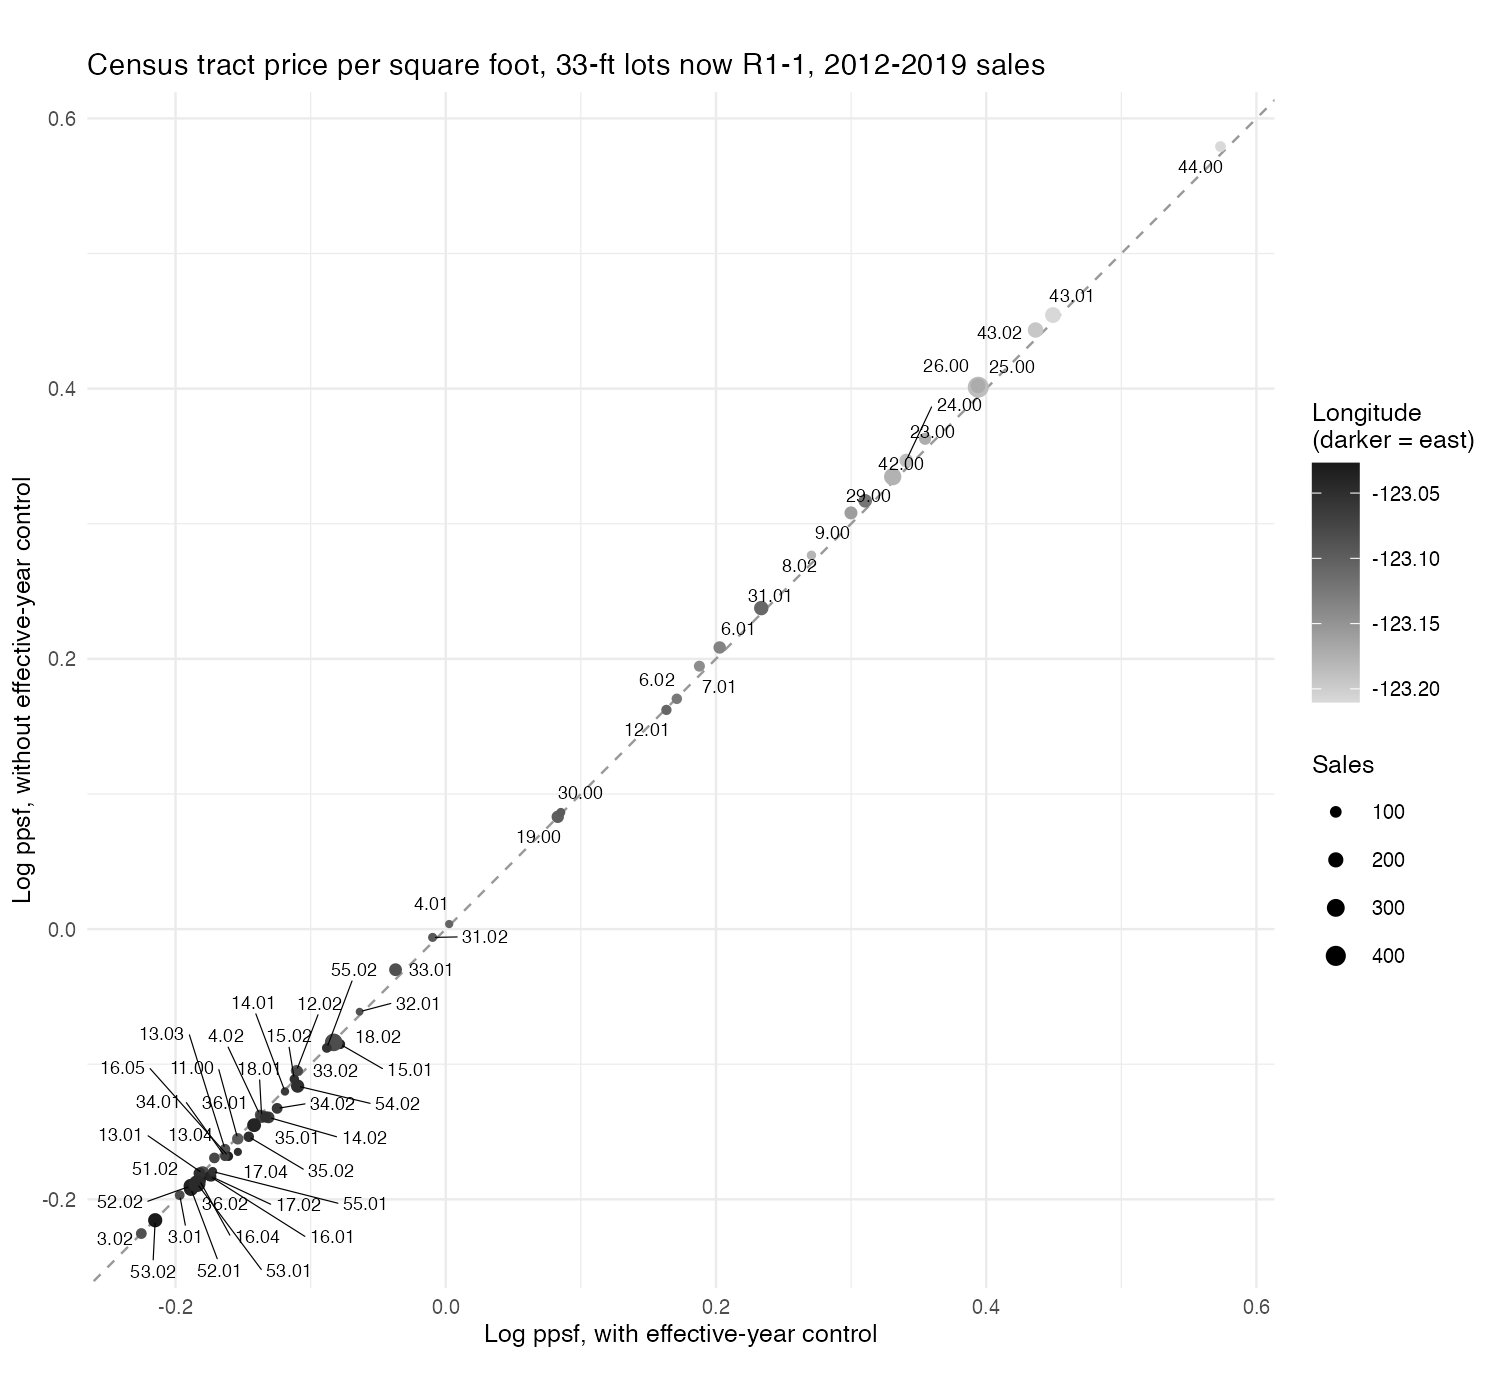
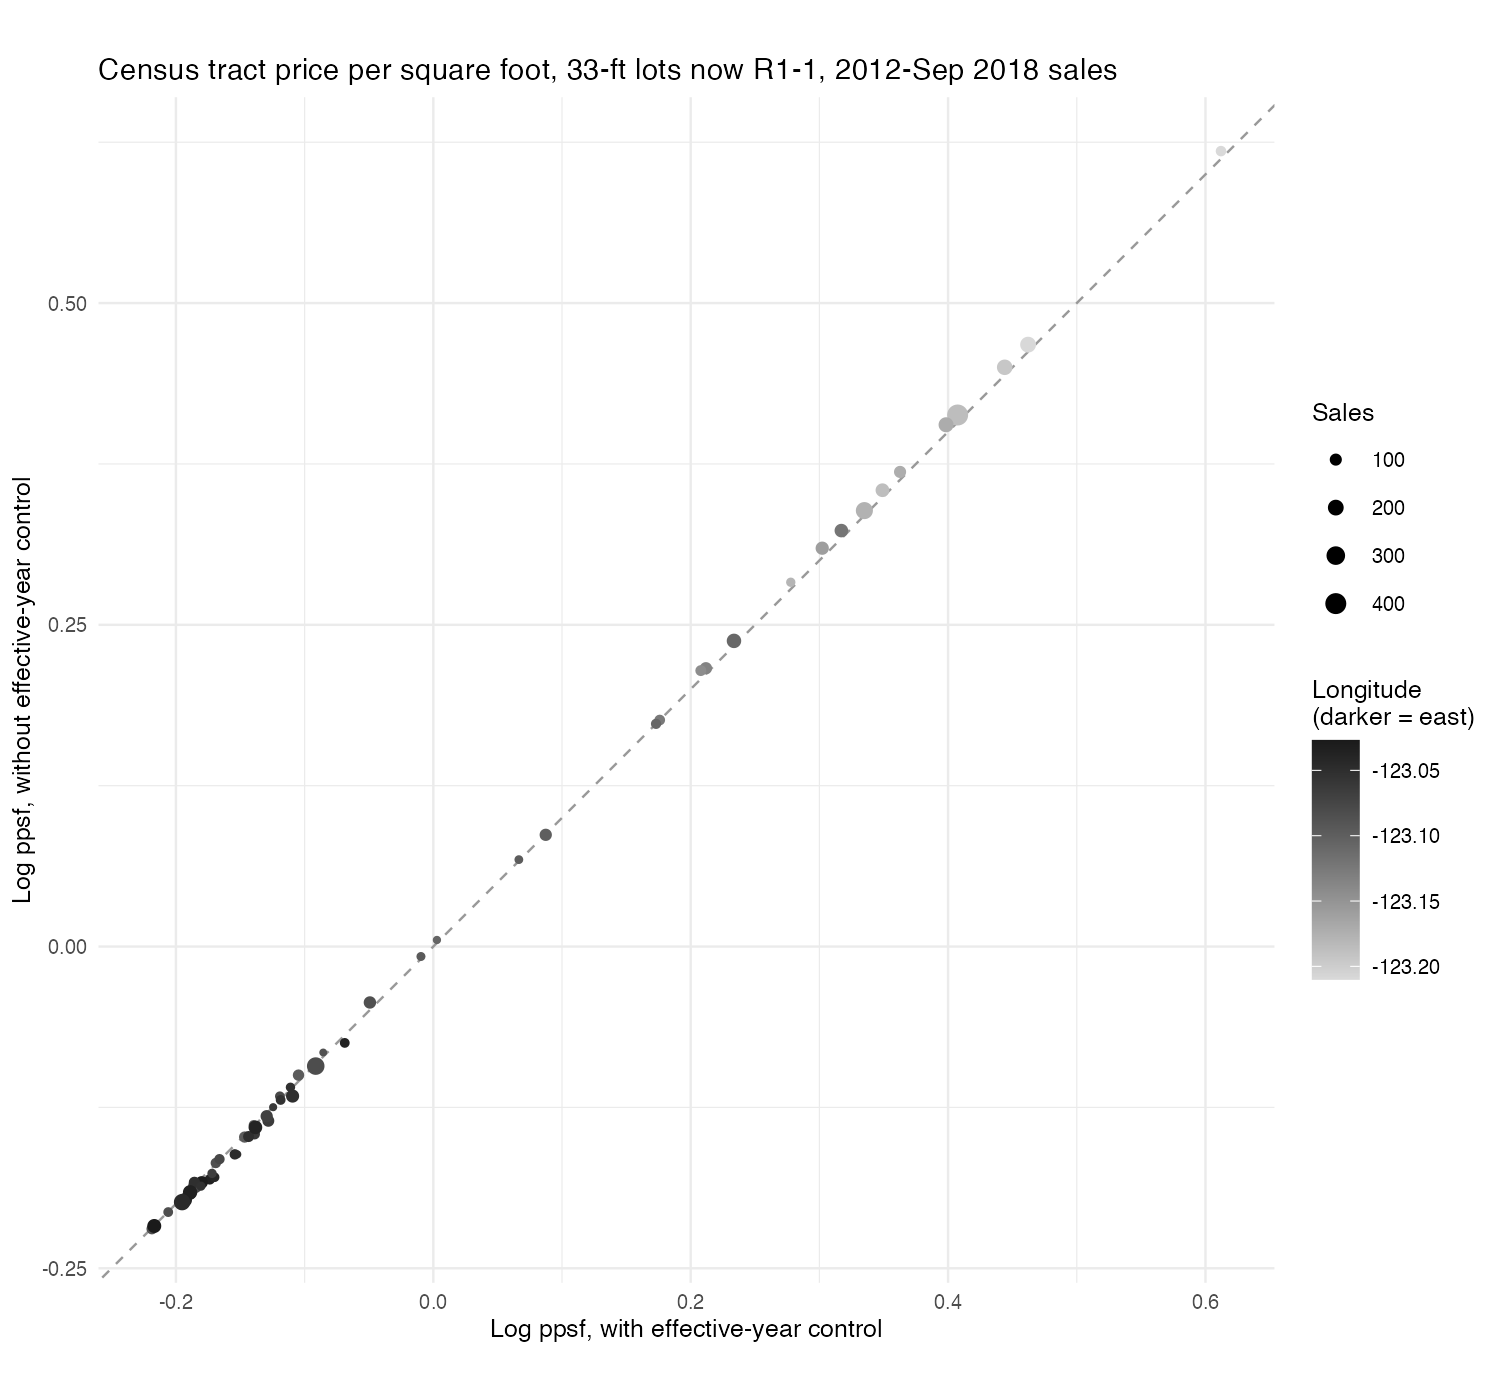
[CHECK] ppsf33: sales end before Sept 2018 duplex approval; unlabeled tract plot

diff --git a/text/main.tex b/text/main.tex
@@ -167,20 +167,20 @@ To estimate a price per square foot at the census tract or neighbourhood level, 
 	\log \text{ppsf}_{ijt} = \alpha + \sum_{t}\beta_{t}I_{t} + \beta \log \text{effective year}_{i} + \sum_{j}\gamma_{j}I_{j} + \epsilon_{ijt}
 \end{equation}
 
-ppsf is the price per square foot (main building total built area). We estimate these for single family transactions in zones now R1 for the years \ppsfFirstYear{} through \ppsfLastYear{}, the last year of sales in the 2019 assessment extract \parencite{BCAssessment2019}. Figure \ref{fig:tractPPSF} plots these estimates at the tract level with (horizontal axis) and without (vertical axis) the effective year control. The points are shaded with darker shades further east and lighter shades further west. Figure \ref{fig:neighbourhoodPPSF} is at the neighbourhood level. All of these estimates are for 33' lots, the focus of our empirical analysis. We choose 33' lots because \lotShareThirtyThreeRone\% of R1 lots are (rounded) 33' wide and because, among new building permits issued since 2024, multiplexes are \mplxShareThirtyThree\% of new builds on 33' lots versus \mplxShareWider\% on larger lots \parencite{BCAssessment2019,COVdata}.
+ppsf is the price per square foot (main building total built area). We estimate these for single family transactions in zones now R1 from \ppsfFirstYear{} until council approved duplexes in RS zones in \duplexCouncilMonth{} \ppsfLastYear{}, so that prices predate the duplex period \parencite{BCAssessment2019}. Figure \ref{fig:tractPPSF} plots these estimates at the tract level with (horizontal axis) and without (vertical axis) the effective year control. The points are shaded with darker shades further east and lighter shades further west. Figure \ref{fig:neighbourhoodPPSF} is at the neighbourhood level. All of these estimates are for 33' lots, the focus of our empirical analysis. We choose 33' lots because \lotShareThirtyThreeRone\% of R1 lots are (rounded) 33' wide and because, among new building permits issued since 2024, multiplexes are \mplxShareThirtyThree\% of new builds on 33' lots versus \mplxShareWider\% on larger lots \parencite{BCAssessment2019,COVdata}.
 
 The estimates use \ppsfSalesTract{} sales in \ppsfNTract{} tracts and \ppsfSalesNbhd{} sales in \ppsfNNbhd{} neighbourhoods with at least \ppsfMinObs{} sales each. The effective-year control barely moves the local estimates: the correlation between the two sets is \ppsfCorEffTract{} across tracts and \ppsfCorEffNbhd{} across neighbourhoods. Price per square foot is \ppsfWestPremiumTract\% higher in West Side than East Side tracts on average.
 
 \begin{figure}[htbp]
 	\centering
 	\includegraphics[width=\textwidth]{ppsf33Tract.png}
-	\caption{\label{fig:tractPPSF}Census tract price per square foot fixed effects (log, demeaned), single family sales on 33' lots now zoned R1, \ppsfFirstYear--\ppsfLastYear. Darker points are further east.}
+	\caption{\label{fig:tractPPSF}Census tract price per square foot fixed effects (log, demeaned), single family sales on 33' lots now zoned R1, \ppsfFirstYear{} to \duplexCouncilMonth{} \ppsfLastYear. Darker points are further east.}
 \end{figure}
 
 \begin{figure}[htbp]
 	\centering
 	\includegraphics[width=\textwidth]{ppsf33Neighbourhood.png}
-	\caption{\label{fig:neighbourhoodPPSF}Neighbourhood price per square foot fixed effects (log, demeaned), single family sales on 33' lots now zoned R1, \ppsfFirstYear--\ppsfLastYear. Darker points are further east.}
+	\caption{\label{fig:neighbourhoodPPSF}Neighbourhood price per square foot fixed effects (log, demeaned), single family sales on 33' lots now zoned R1, \ppsfFirstYear{} to \duplexCouncilMonth{} \ppsfLastYear. Darker points are further east.}
 \end{figure}
 
 That difference-in-differences is complicated by the presence of a third alternative, multiplexes, newly allowed in 2023. Assuming that errors in profits have a type 1 extreme value distribution in \eqref{eq:profit}, then the relative appeal of duplexes versus single family homes is unaffected by the presence of the multiplex option. We thus include in our analysis on the logit as well as OLS difference in differences. Either version requires parallel trends: absent the 2023 reform, the relationship between neighbourhood prices and duplex take-up would have continued on the path it followed between the two reforms. Whether multiplexes, granted more FSR, but further divided relative to duplexes, would be more or less attractive on more expensive lots is unclear.

diff --git a/text/ppsf33.tex b/text/ppsf33.tex
@@ -1,15 +1,15 @@
 % generated by scripts/vancouverPPSF33.R; do not edit
-\newcommand{\ppsfSalesTract}{6,432}
-\newcommand{\ppsfSalesNbhd}{6,508}
+\newcommand{\ppsfSalesTract}{5,750}
+\newcommand{\ppsfSalesNbhd}{5,818}
 \newcommand{\ppsfNTract}{56}
 \newcommand{\ppsfNNbhd}{20}
 \newcommand{\ppsfMinObs}{20}
 \newcommand{\ppsfFirstYear}{2012}
-\newcommand{\ppsfLastYear}{2019}
-\newcommand{\ppsfEffCoefTract}{2.13}
-\newcommand{\ppsfEffCoefNbhd}{2.15}
+\newcommand{\ppsfLastYear}{2018}
+\newcommand{\ppsfEffCoefTract}{1.89}
+\newcommand{\ppsfEffCoefNbhd}{1.91}
 \newcommand{\ppsfCorEffTract}{1.00}
 \newcommand{\ppsfCorEffNbhd}{1.00}
-\newcommand{\ppsfWestPremiumTract}{54}
-\newcommand{\ppsfWestPremiumNbhd}{57}
+\newcommand{\ppsfWestPremiumTract}{56}
+\newcommand{\ppsfWestPremiumNbhd}{59}
 \newcommand{\ppsfCorTractNbhd}{0.99}

diff --git a/notes/factlog.md b/notes/factlog.md
@@ -62,3 +62,9 @@
 - Log effective year coefficient 2.13 (SE 0.30) tract, 2.15 nbhd, i.e. about 0.1% per year. Within R² 0.01. With- vs without-control FE correlate 0.9999 (tract) and 0.9999 (nbhd), so the figures lie on the 45° line.
 - West (lon < −123.101) minus East mean FE: +54% tract, +57% nbhd; cor(FE, −longitude) 0.93 / 0.94. Neighbourhood FE vs sales-weighted mean tract FE: cor 0.99 (19 nbhds).
 - Why CHECK: (1) the draft said 2012–2021, but the 2019 extract ends in 2019, so the text now uses the macros. (2) The effective-year control is nearly irrelevant as specified (log of a calendar year ≈ linear year). Log age or log sqft would be a stronger control; not run, because it isn't the draft's specification. (3) No published City ppsf to sanity-check against.
+
+## 2026-11-15 — ppsf33 revised: sales end before duplex approval — CHECK
+
+- Per Tom: keep the 2019 extract, but don't overlap the duplex period. Sales now 2012 to 2018-09-17 (council approval 2018-09-18, the same cutoff as `D_REFORM` in vancouverPermitLogit.R). The tract plot has no labels.
+- 5,822 sales (median $660/sqft); 5,750 in 56 tracts, 5,818 in 20 neighbourhoods. Log effective year 1.89 (SE 0.32) tract, 1.91 nbhd. With/without-control correlation still 1.00. West premium 56% tract, 59% nbhd; tract–nbhd cor 0.99.
+- Other CHECK points as in the previous entry.
